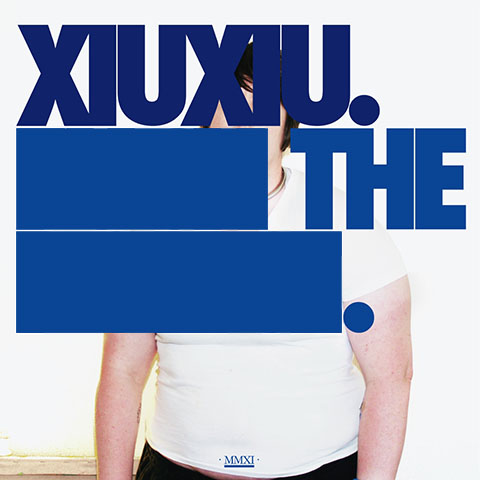
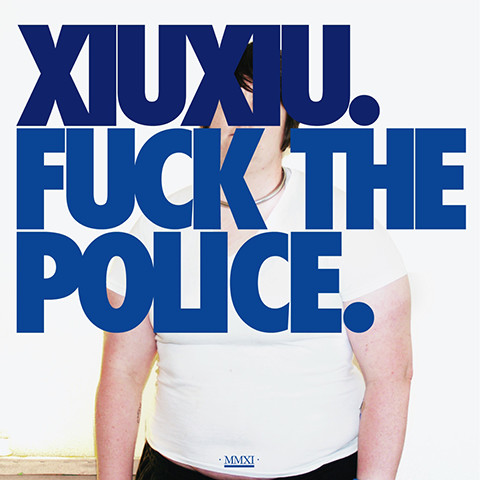
big cleanup

diff --git a/cv/index.html b/cv/index.html
@@ -16,12 +16,21 @@ title: CV
   <p><em>Jonathan Beilin</em> is interested in the intersections of <em>art</em>, <em>social justice</em>, and <em>technology</em>. <!--The most applicable gag-inducing buzzword is <em>"creative technologist"</em>. --></p>
 </section>
 
+<!-- Education -->
+<section>
+  <h3>Education</h3>
+    <ul><li><strong>Parsons School of Design, 2015 - 2017 — MFA Design and Technology</strong>
+    <p>President's Scholarship recipient</p></li></ul>
+  <ul><li><strong>Dartmouth College, 2003 - 2007 — BA in Ancient History</strong>
+    <p>Additional coursework in art history, electronic music, and math. Curated a show on Futurism for the Hood Museum.</p></li></ul>
+</section>
+
 <!-- Skills -->
 <section>
   <h3>Skills</h3>
   <p>
-    <p><strong>Adept:</strong> Photography, experience and game design, Lightroom, Xcode, git, openFrameworks.</p>
-      <p><strong>Comfortable:</strong> Videography, Premiere, Photoshop, Illustrator, Logic Pro, Processing, Arduino.</p>
+    <p><strong>Adept:</strong> Photography, Videography, Premiere, experience and game design, Lightroom, Xcode, git, openFrameworks.</p>
+      <p><strong>Comfortable:</strong> After Effects, Photoshop, Illustrator, Logic Pro, Processing, Arduino.</p>
       <p><strong>Learning:</strong> Unity, Cinema 4D.</p>
   </p>
 </section>
@@ -32,7 +41,7 @@ title: CV
   <ul>
     <li><strong>Freelance Videographer, Photographer, and Experience Designer</strong>
           <p>Clients include <a href="http://encyclopediapictura.com/" target="_blank">Encyclopedia Pictura</a>, The Atlantic, Everlane, imgur, The Bold Italic, and Eater SF.</p></li>
-    <li><strong><a href="http://amc.alliedmedia.org/" target="_blank">Allied Media Conference</a>, 2014 - present — Coordinator</strong>
+    <li><strong><a href="http://amc.alliedmedia.org/" target="_blank">Allied Media Conference</a>, 2014 - 2015 — Coordinator</strong>
           <p>The Allied Media Conference is a yearly get-together focusing on developing media strategies for social justice. For the games-oriented track, I recruited speakers and workshops, organized fundraising, and worked on the general logistics of a conference. We work both to discuss how interactive media can be used for outreach and to teach real skills to encourage underrepresented voices to make games.</p></li>
     <li><strong>World Economic Forum, 2014 - present — Young Global Shaper</strong></li>
 <!--     <li><strong><a href="http://www.igf.com/" target="_blank">Independent Games Festival</a>, 2013 - present — Judge</strong></li> -->
@@ -47,14 +56,8 @@ title: CV
   </ul>
 </section>
 
-<!-- Education -->
-<section>
-  <h3>Education</h3>
-  <ul><li><strong>Dartmouth College, 2003 - 2007 — BA in Ancient History</strong>
-    <p>Additional coursework in art history, electronic music, and math. Curated a show on Futurism for the Hood Museum.</p></li></ul>
-</section>
-
 <!-- Photography -->
+<!--
 <section>
   <h3>Photography and Videography</h3>
   <ul>
@@ -70,6 +73,7 @@ title: CV
     <li><strong>Michelle Tea's "Valencia: The Movie/s", 2011 — Producer, chapter 6</strong></li>
   </ul>
 </section>
+-->
 
 <!-- Visual Art -->
 <!-- <section>
@@ -85,7 +89,7 @@ title: CV
   <ul>
     <li><strong><strike>Pong</strike>Vaders (now <a href="https://itunes.apple.com/us/app/breakvaders/id785794000?mt=8" target="_blank">BreakVaders</a>), 2010</strong>
         <p>A co-operative arcade game mashup. Featured by Apple in their Lost In Space collection. Nearly 100k downloads before it received a cease and desist from Atari for using "<strike>Pong</strike>" in the title. Received a 7/10 from PC Magazine.</p></li>
-    
+
     <li><strong><a href="https://itunes.apple.com/us/app/yantra-mandala/id425597254?mt=8" target="_blank">Sri Yantra Mandala</a> app, 2010</strong>
       <p>A one-day app about the practice of constructing sand mandalas for meditation. Used worldwide, even in a few temples. Featured as New and Noteworthy. Downloaded over ten thousand times. Sound by <a href="http://disasterpeace.com/" target="_blank">Disasterpeace</a>. </p></li>
 <!--           <li><strong><a href="http://hoodmuseum.dartmouth.edu/">Hood Museum</a> webpage redesign, 2007</strong></li> -->
@@ -97,7 +101,7 @@ title: CV
   <h3>Shows</h3>
   <ul>
     <li><strong><a href="https://artiholics.com/2014/03/21/special-delivery-jonathan-beilins-acrylic-cubes/" target="_blank">Special Delivery</a>, 2013</strong>
-        <p>Participated in an international mail art exchange. Audrey Tran covered my piece.</p></li>
+        <p>Participated in an international mail art exchange.</p></li>
     <li><strong>Gamma 4: One-Button Objects, 2010</strong>
         <p>Designed and built an anti-button – a button which requires effort to prevent it from being triggered – that was used to control a one-button game (think Canabalt).</p></li>
     <li><strong>Babycastles: A Retrospective, 2010</strong>

diff --git a/contact/index.html b/contact/index.html
@@ -6,9 +6,9 @@ title: Contact
 <section>
 	<div class="row">
 		<div class="col-md-8"
-		<p>Have a project that could use a videographer/photographer/creative technologist/interactive designer/multidisciplinary weirdo? <a href="mailto:jbeilin@gmail.com" target="_blank">Email me!</a></p>
+		<p>Have a project that could use a videographer/photographer/creative technologist/experience designer/multidisciplinary weirdo? <a href="mailto:jbeilin@gmail.com" target="_blank">Email me!</a></p>
 
-		<p>I'm available for on-site work in the Bay Area as well as remote work.</p>
+		<p>I'm available for on-site work in NYC as well as for remote work.</p>
 		</div>
 	</div>
 

diff --git a/projects/xiuxiu/index.html b/projects/xiuxiu/index.html
@@ -1,9 +1,9 @@
 ---
 layout: project
-title: Xiu Xiu Album Cover
+title: Xiu Xiu "Fuck The Police" Cover
 year: 2011
 ---
 
 <img src="xiuxiu_480.jpg" />
 
-<p>Performed photography of the subject <a href="http://www.poopdoggyballs.com/" target="_blank">Daphny</a> for the band <a href="http://xiuxiu.org/" target="_blank">Xiu Xiu</a> for their 7" F*** the P*****.</p>
+<p>Performed photography of the subject <a href="http://www.poopdoggyballs.com/" target="_blank">Daphny</a> for the band <a href="http://xiuxiu.org/" target="_blank">Xiu Xiu</a> for their 7" Fuck The Police.</p>

diff --git a/projects/everlane/index.html b/projects/everlane/index.html
@@ -13,6 +13,11 @@ gallery: true
 <script>
 	var data = [
 		{
+			video: 'https://vimeo.com/124557854',
+			title: 'Everlane Spring Promo',
+			description: 'Everlane Spring Promo'
+		},
+		{
 			video: 'http://vimeo.com/124080375',
 			title: 'Everlane E-com',
 			description: 'SL Black'
@@ -42,4 +47,4 @@ gallery: true
     });
 </script>
 
-<p>Directed e-commerce videos for the Spring 2015 collection for Everlane.</p>
+<p>Directed &amp; color graded e-commerce videos for the Spring 2015 collection for Everlane. Edited a promo.</p>

diff --git a/projects/index.html b/projects/index.html
@@ -4,9 +4,9 @@ title: Portfolio
 ---
 
 {% for category in site.data.projects %}
-<div class="clearfix"></div>
+<!-- <div class="clearfix"></div> -->
 <section>
-	<h1>{{ category.name }}</h1>
+	<!-- <h1>{{ category.name }}</h1> -->
 	<div class="row">
 	{% for p in category.projects %}
 			<div class="col-md-4 col-sm-6 col-xs-6">
